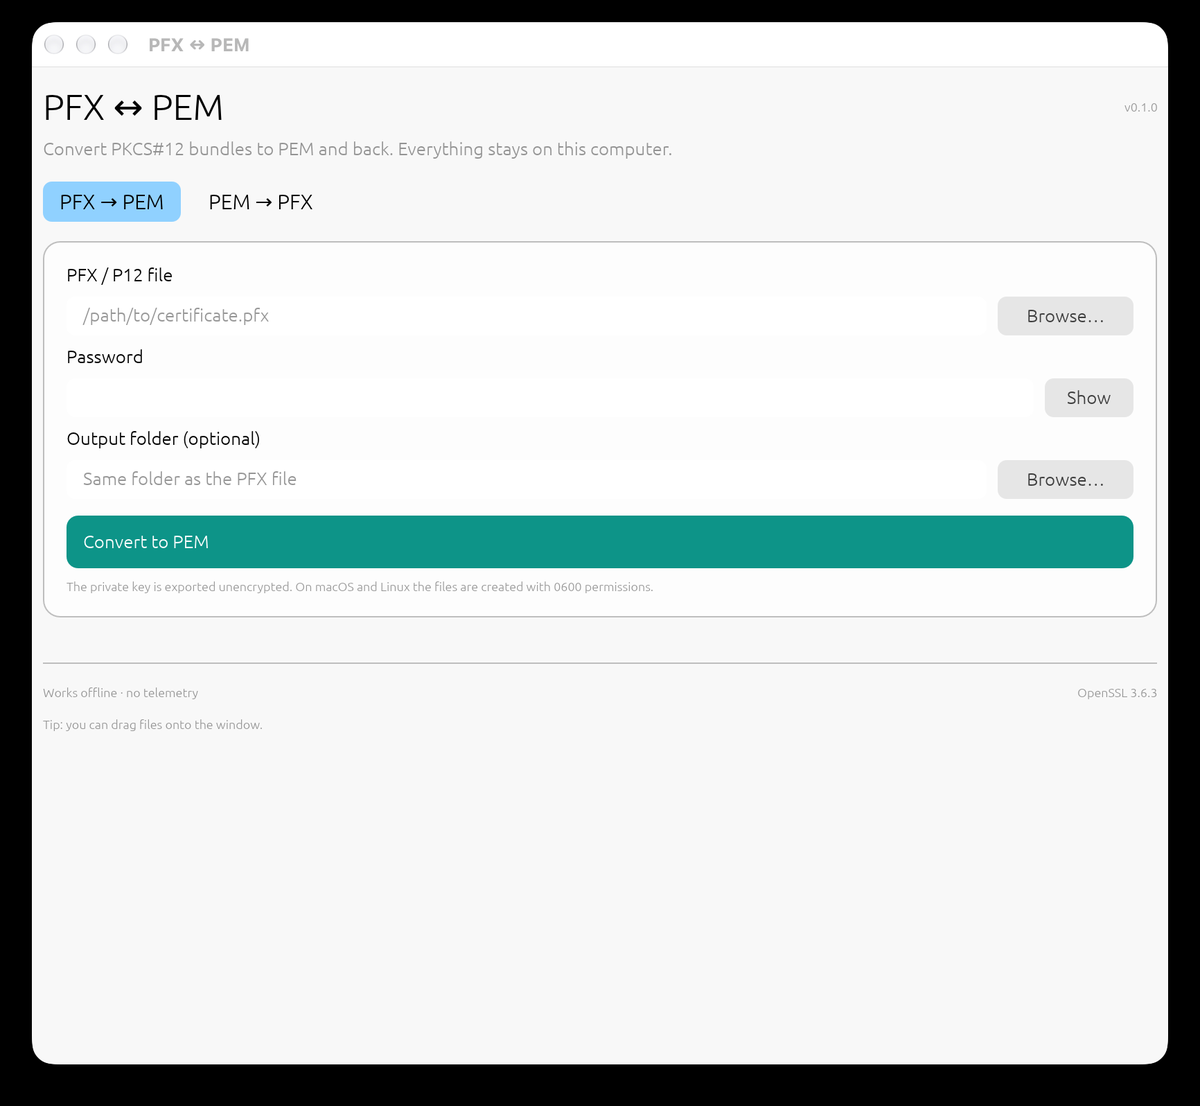
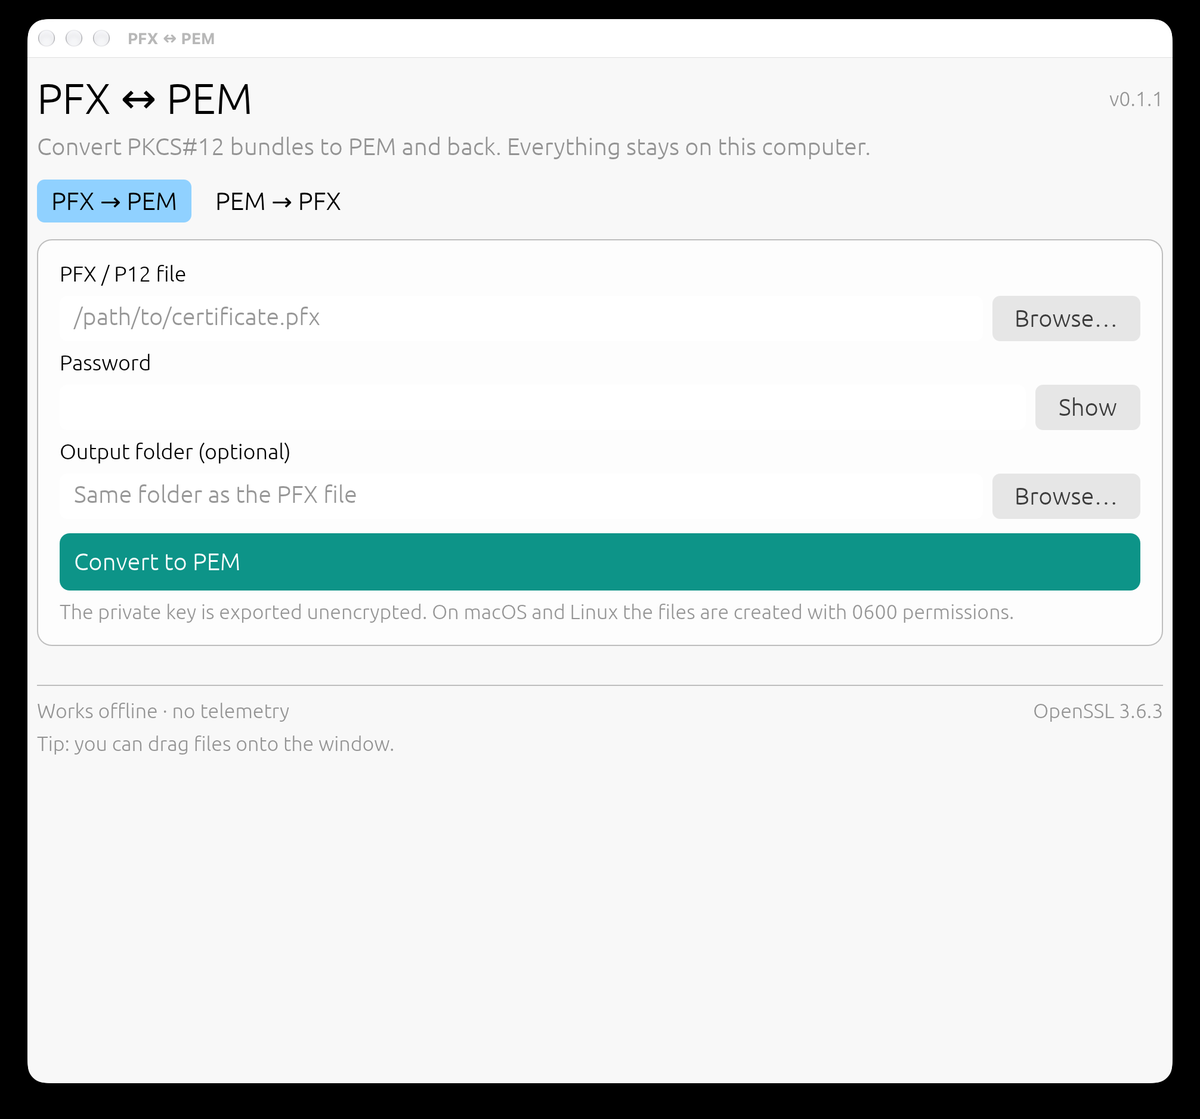
fix: increase UI font sizes for readability

Changed region(s): [[0.0, 0.0, 0.9867, 0.9837], [0.8325, 0.2767, 0.925, 0.3074], [0.8942, 0.3382, 0.925, 0.3689]]

diff --git a/src/app.rs b/src/app.rs
@@ -2,7 +2,10 @@ use std::path::{Path, PathBuf};
 use std::process::Command;
 
 use eframe::egui;
-use egui::{Align, Color32, CornerRadius, Frame, Layout, Margin, RichText, Stroke, TextEdit};
+use egui::{
+    Align, Color32, CornerRadius, FontId, Frame, Layout, Margin, RichText, Stroke, TextEdit,
+    TextStyle,
+};
 
 use pfx_pem_converter::{
     ConversionReport, ConvertError, PemToPfxOptions, PfxToPemOptions, default_pfx_path,
@@ -98,6 +101,24 @@ impl App {
             style.spacing.item_spacing = egui::vec2(8.0, 8.0);
             style.spacing.button_padding = egui::vec2(12.0, 6.0);
             style.interaction.selectable_labels = false;
+
+            // The defaults are too small on high-DPI displays. Bump every
+            // text role so the whole interface stays consistently readable.
+            style
+                .text_styles
+                .insert(TextStyle::Body, FontId::proportional(20.0));
+            style
+                .text_styles
+                .insert(TextStyle::Button, FontId::proportional(20.0));
+            style
+                .text_styles
+                .insert(TextStyle::Small, FontId::proportional(17.0));
+            style
+                .text_styles
+                .insert(TextStyle::Monospace, FontId::monospace(18.0));
+            style
+                .text_styles
+                .insert(TextStyle::Heading, FontId::proportional(32.0));
             style.visuals.widgets.inactive.corner_radius = CornerRadius::same(6);
             style.visuals.widgets.hovered.corner_radius = CornerRadius::same(6);
             style.visuals.widgets.active.corner_radius = CornerRadius::same(6);
@@ -319,7 +340,7 @@ impl App {
         )
         .fill(ACCENT)
         .corner_radius(CornerRadius::same(8))
-        .min_size(egui::vec2(ui.available_width(), 38.0));
+        .min_size(egui::vec2(ui.available_width(), 48.0));
         if ui.add(button).clicked() {
             self.convert();
             changed = false;
@@ -413,7 +434,7 @@ impl App {
         let button = egui::Button::new(RichText::new("Create PFX").strong().color(Color32::WHITE))
             .fill(ACCENT)
             .corner_radius(CornerRadius::same(8))
-            .min_size(egui::vec2(ui.available_width(), 38.0));
+            .min_size(egui::vec2(ui.available_width(), 48.0));
         if ui.add(button).clicked() {
             self.convert();
             changed = false;
@@ -457,8 +478,8 @@ impl App {
         let response = frame.show(ui, |ui| {
             ui.set_min_width(ui.available_width());
             ui.horizontal(|ui| {
-                ui.label(RichText::new("●").color(color).size(13.0));
-                ui.label(RichText::new(&outcome.title).strong().size(15.0));
+                ui.label(RichText::new("●").color(color).size(17.0));
+                ui.label(RichText::new(&outcome.title).strong().size(21.0));
             });
 
             ui.label(&outcome.message);
@@ -549,7 +570,7 @@ impl eframe::App for App {
                     ui.add_space(6.0);
 
                     ui.horizontal(|ui| {
-                        ui.label(RichText::new("PFX ↔ PEM").size(26.0).strong());
+                        ui.label(RichText::new("PFX ↔ PEM").size(36.0).strong());
                         ui.with_layout(Layout::right_to_left(Align::Center), |ui| {
                             ui.label(
                                 RichText::new(format!("v{}", env!("CARGO_PKG_VERSION")))
@@ -571,7 +592,7 @@ impl eframe::App for App {
                         if ui
                             .selectable_label(
                                 self.tab == Tab::PfxToPem,
-                                RichText::new("PFX → PEM").size(15.0).strong(),
+                                RichText::new("PFX → PEM").size(21.0).strong(),
                             )
                             .clicked()
                         {
@@ -581,7 +602,7 @@ impl eframe::App for App {
                         if ui
                             .selectable_label(
                                 self.tab == Tab::PemToPfx,
-                                RichText::new("PEM → PFX").size(15.0).strong(),
+                                RichText::new("PEM → PFX").size(21.0).strong(),
                             )
                             .clicked()
                         {
@@ -596,7 +617,7 @@ impl eframe::App for App {
                         .fill(ui.visuals().faint_bg_color)
                         .stroke(ui.visuals().widgets.noninteractive.bg_stroke)
                         .corner_radius(CornerRadius::same(12))
-                        .inner_margin(Margin::same(16));
+                        .inner_margin(Margin::same(18));
 
                     card.show(ui, |ui| match self.tab {
                         Tab::PfxToPem => self.show_pfx_to_pem(ui),
@@ -672,20 +693,20 @@ fn path_row(
     button_text: &str,
     pick: impl FnOnce() -> Option<PathBuf>,
 ) -> bool {
-    ui.label(RichText::new(label).strong().size(13.0));
+    ui.label(RichText::new(label).strong().size(18.0));
 
     let mut changed = false;
     let response = ui
         .horizontal(|ui| {
-            let button_width = 98.0;
+            let button_width = 124.0;
             let text_width =
                 (ui.available_width() - button_width - ui.spacing().item_spacing.x).max(120.0);
             let response = ui.add_sized(
-                [text_width, 28.0],
+                [text_width, 38.0],
                 TextEdit::singleline(value).hint_text(hint),
             );
             if ui
-                .add_sized([button_width, 28.0], egui::Button::new(button_text))
+                .add_sized([button_width, 38.0], egui::Button::new(button_text))
                 .clicked()
                 && let Some(path) = pick()
             {
@@ -700,20 +721,20 @@ fn path_row(
 }
 
 fn password_row(ui: &mut egui::Ui, label: &str, value: &mut String, show: &mut bool) -> bool {
-    ui.label(RichText::new(label).strong().size(13.0));
+    ui.label(RichText::new(label).strong().size(18.0));
 
     let (changed, toggled) = ui
         .horizontal(|ui| {
-            let button_width = 64.0;
+            let button_width = 88.0;
             let text_width =
                 (ui.available_width() - button_width - ui.spacing().item_spacing.x).max(120.0);
             let response = ui.add_sized(
-                [text_width, 28.0],
+                [text_width, 38.0],
                 TextEdit::singleline(value).password(!*show),
             );
             let toggled = ui
                 .add_sized(
-                    [button_width, 28.0],
+                    [button_width, 38.0],
                     egui::Button::new(if *show { "Hide" } else { "Show" }),
                 )
                 .clicked();

diff --git a/src/main.rs b/src/main.rs
@@ -47,8 +47,8 @@ fn run_gui() -> eframe::Result {
     let options = eframe::NativeOptions {
         viewport: egui::ViewportBuilder::default()
             .with_title("PFX ↔ PEM")
-            .with_inner_size([820.0, 720.0])
-            .with_min_inner_size([660.0, 560.0])
+            .with_inner_size([960.0, 860.0])
+            .with_min_inner_size([780.0, 650.0])
             .with_icon(icon),
         renderer: eframe::Renderer::Glow,
         centered: true,
